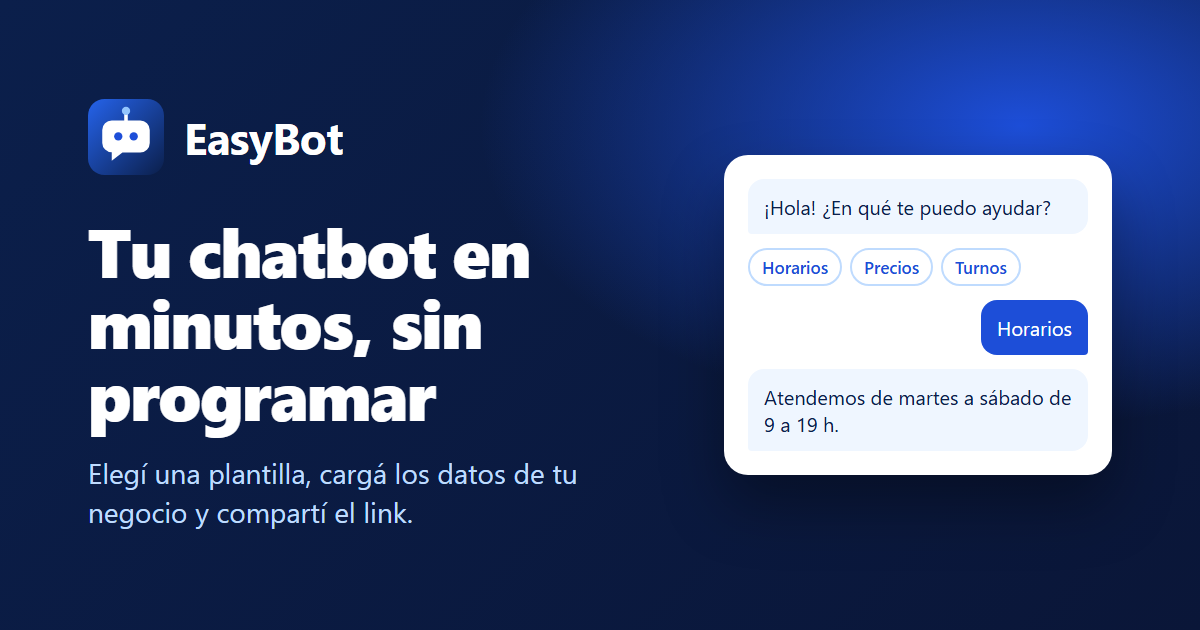
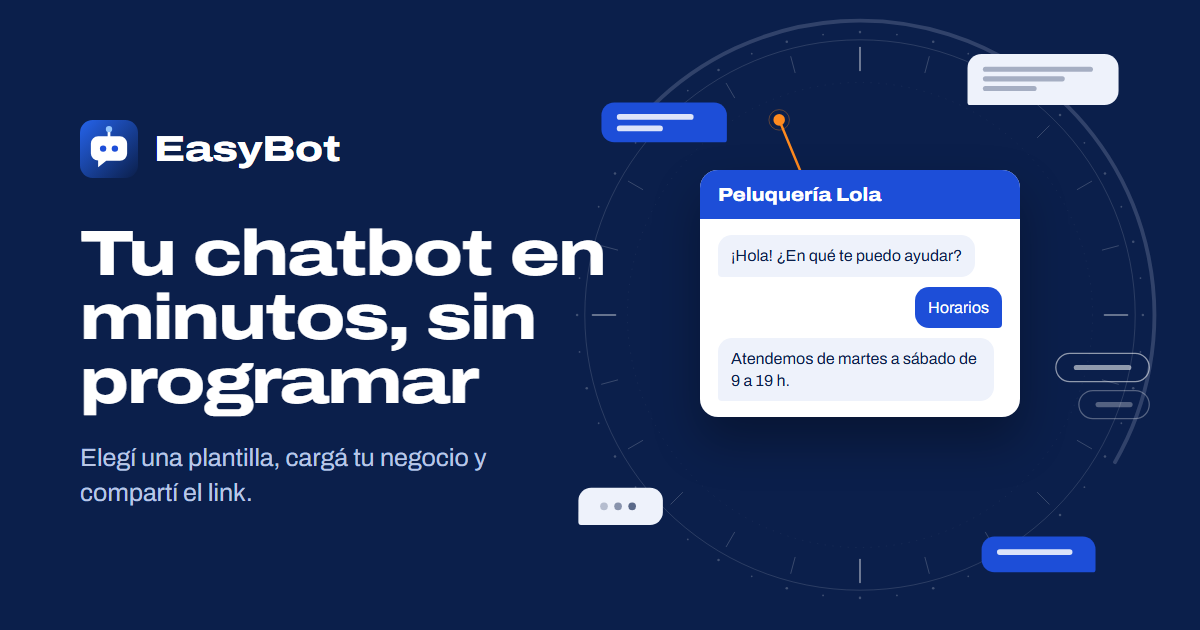
feat(client): add 24 hour dial illustrations for hero, empty state and share image.

diff --git a/client/src/pages/home/home-sections.css b/client/src/pages/home/home-sections.css
@@ -1,6 +1,40 @@
 /* Home: chat de ejemplo, chips, secciones y tarjetas.
    Base y variables en home.css; plantillas, pie y escritorio en home-layout.css. */
 
+/* Ilustración de la portada: dial de 24 h con conversación alrededor
+   (assets/illustrations/hero-dial.svg). La aguja naranja marca las 22:30:
+   el negocio ya cerró y el bot sigue atendiendo. Es decorativa. */
+.home-hero {
+  overflow: hidden; /* el dial es más grande que su columna: no genera scroll lateral */
+}
+
+.home-hero-copy {
+  position: relative;
+  z-index: 1; /* el texto siempre por encima de la ilustración */
+}
+
+.home-hero-art {
+  position: relative;
+  isolation: isolate;
+}
+
+/* Solo en escritorio: en celular el chat tapa casi todo el dial y lo que asoma
+   en los bordes parece un error. Tamaño tope para que entre entero en la portada. */
+@media (min-width: 960px) {
+  .home-hero-art::before {
+    content: '';
+    position: absolute;
+    z-index: -1;
+    top: 50%;
+    left: 50%;
+    width: min(150%, 640px);
+    aspect-ratio: 1;
+    transform: translate(-50%, -50%);
+    background: url('../../assets/illustrations/hero-dial.svg') center / contain no-repeat;
+    pointer-events: none;
+  }
+}
+
 /* Chat de ejemplo de la portada */
 .home-chat {
   overflow: hidden;

diff --git a/client/src/components/home/HeroSection.jsx b/client/src/components/home/HeroSection.jsx
@@ -29,7 +29,7 @@ export default function HeroSection({ onRegister }) {
   return (
     <section className="home-hero home-dark" aria-labelledby="home-hero-title">
       <div className="home-container home-hero-inner">
-        <div>
+        <div className="home-hero-copy">
           <p className="home-badge">Para microemprendimientos y pequeños comercios</p>
           <h1 id="home-hero-title" className="home-hero-title">
             Tu chatbot en minutos, sin programar
@@ -48,7 +48,11 @@ export default function HeroSection({ onRegister }) {
           </div>
           <p className="home-hero-note">Se usa desde la web. Tus clientes no se registran ni instalan nada.</p>
         </div>
-        <ExampleChat />
+        {/* Detrás del chat, el dial de 24 h (ilustración decorativa, en CSS):
+            el negocio contesta a cualquier hora, aunque esté cerrado. */}
+        <div className="home-hero-art">
+          <ExampleChat />
+        </div>
       </div>
     </section>
   )

diff --git a/client/src/pages/bots/PageState.jsx b/client/src/pages/bots/PageState.jsx
@@ -1,11 +1,13 @@
 // Bloque para los estados de una pantalla: carga, vacío o error.
 // Así nunca queda una pantalla en blanco.
 
-export default function PageState({ title, text, actionLabel, onAction, isError = false, isLoading = false }) {
+// illustration: imagen decorativa opcional (ej. el estado vacío de "Mis bots").
+export default function PageState({ title, text, actionLabel, onAction, isError = false, isLoading = false, illustration }) {
   return (
     // role="alert" hace que un lector de pantalla anuncie el error enseguida;
     // role="status" anuncia los demás estados sin interrumpir.
     <div className="page-state" role={isError ? 'alert' : 'status'}>
+      {illustration && <img className="page-state-art" src={illustration} alt="" width="480" height="360" />}
       {isLoading && <span className="eb-spinner" aria-hidden="true" />}
       <h2 className="page-state-title">{title}</h2>
       {text && <p className="page-state-text">{text}</p>}

diff --git a/client/src/pages/bots/MyBotsPage.jsx b/client/src/pages/bots/MyBotsPage.jsx
@@ -2,6 +2,7 @@
 // No incluye la barra superior ni las rutas (están en App.jsx y AppLayout): quien la
 // monte en su ruta le pasa onCreate y onEdit para navegar al asistente.
 
+import emptyBotsArt from '../../assets/illustrations/empty-bots.svg'
 import ConfirmDialog from '../../components/common/ConfirmDialog.jsx'
 import BotCard from './BotCard.jsx'
 import PageState from './PageState.jsx'
@@ -59,6 +60,7 @@ export default function MyBotsPage({ onCreate, onEdit }) {
 
       {status === 'ready' && bots.length === 0 && (
         <PageState
+          illustration={emptyBotsArt}
           title="Todavía no creaste ningún bot"
           text="Elegí una plantilla, cargá los datos de tu negocio y publicá el link."
           actionLabel="Crear mi primer bot"

diff --git a/client/src/pages/bots/theme.css b/client/src/pages/bots/theme.css
@@ -149,6 +149,7 @@ a.btn {
 .page-state-title {
   margin: 0 0 8px;
   font-size: 1.25rem;
+  text-wrap: balance;
 }
 
 .page-state-text {
@@ -172,6 +173,15 @@ a.btn {
     opacity: 0;
     transform: translateY(-4px);
   }
+}
+
+/* Ilustración del estado vacío: ocupa el ancho de la tarjeta sin agrandarse de más. */
+.page-state-art {
+  display: block;
+  width: 100%;
+  max-width: 320px;
+  height: auto;
+  margin: -8px auto 8px;
 }
 
 /* Estado de carga: spinner + texto. */
